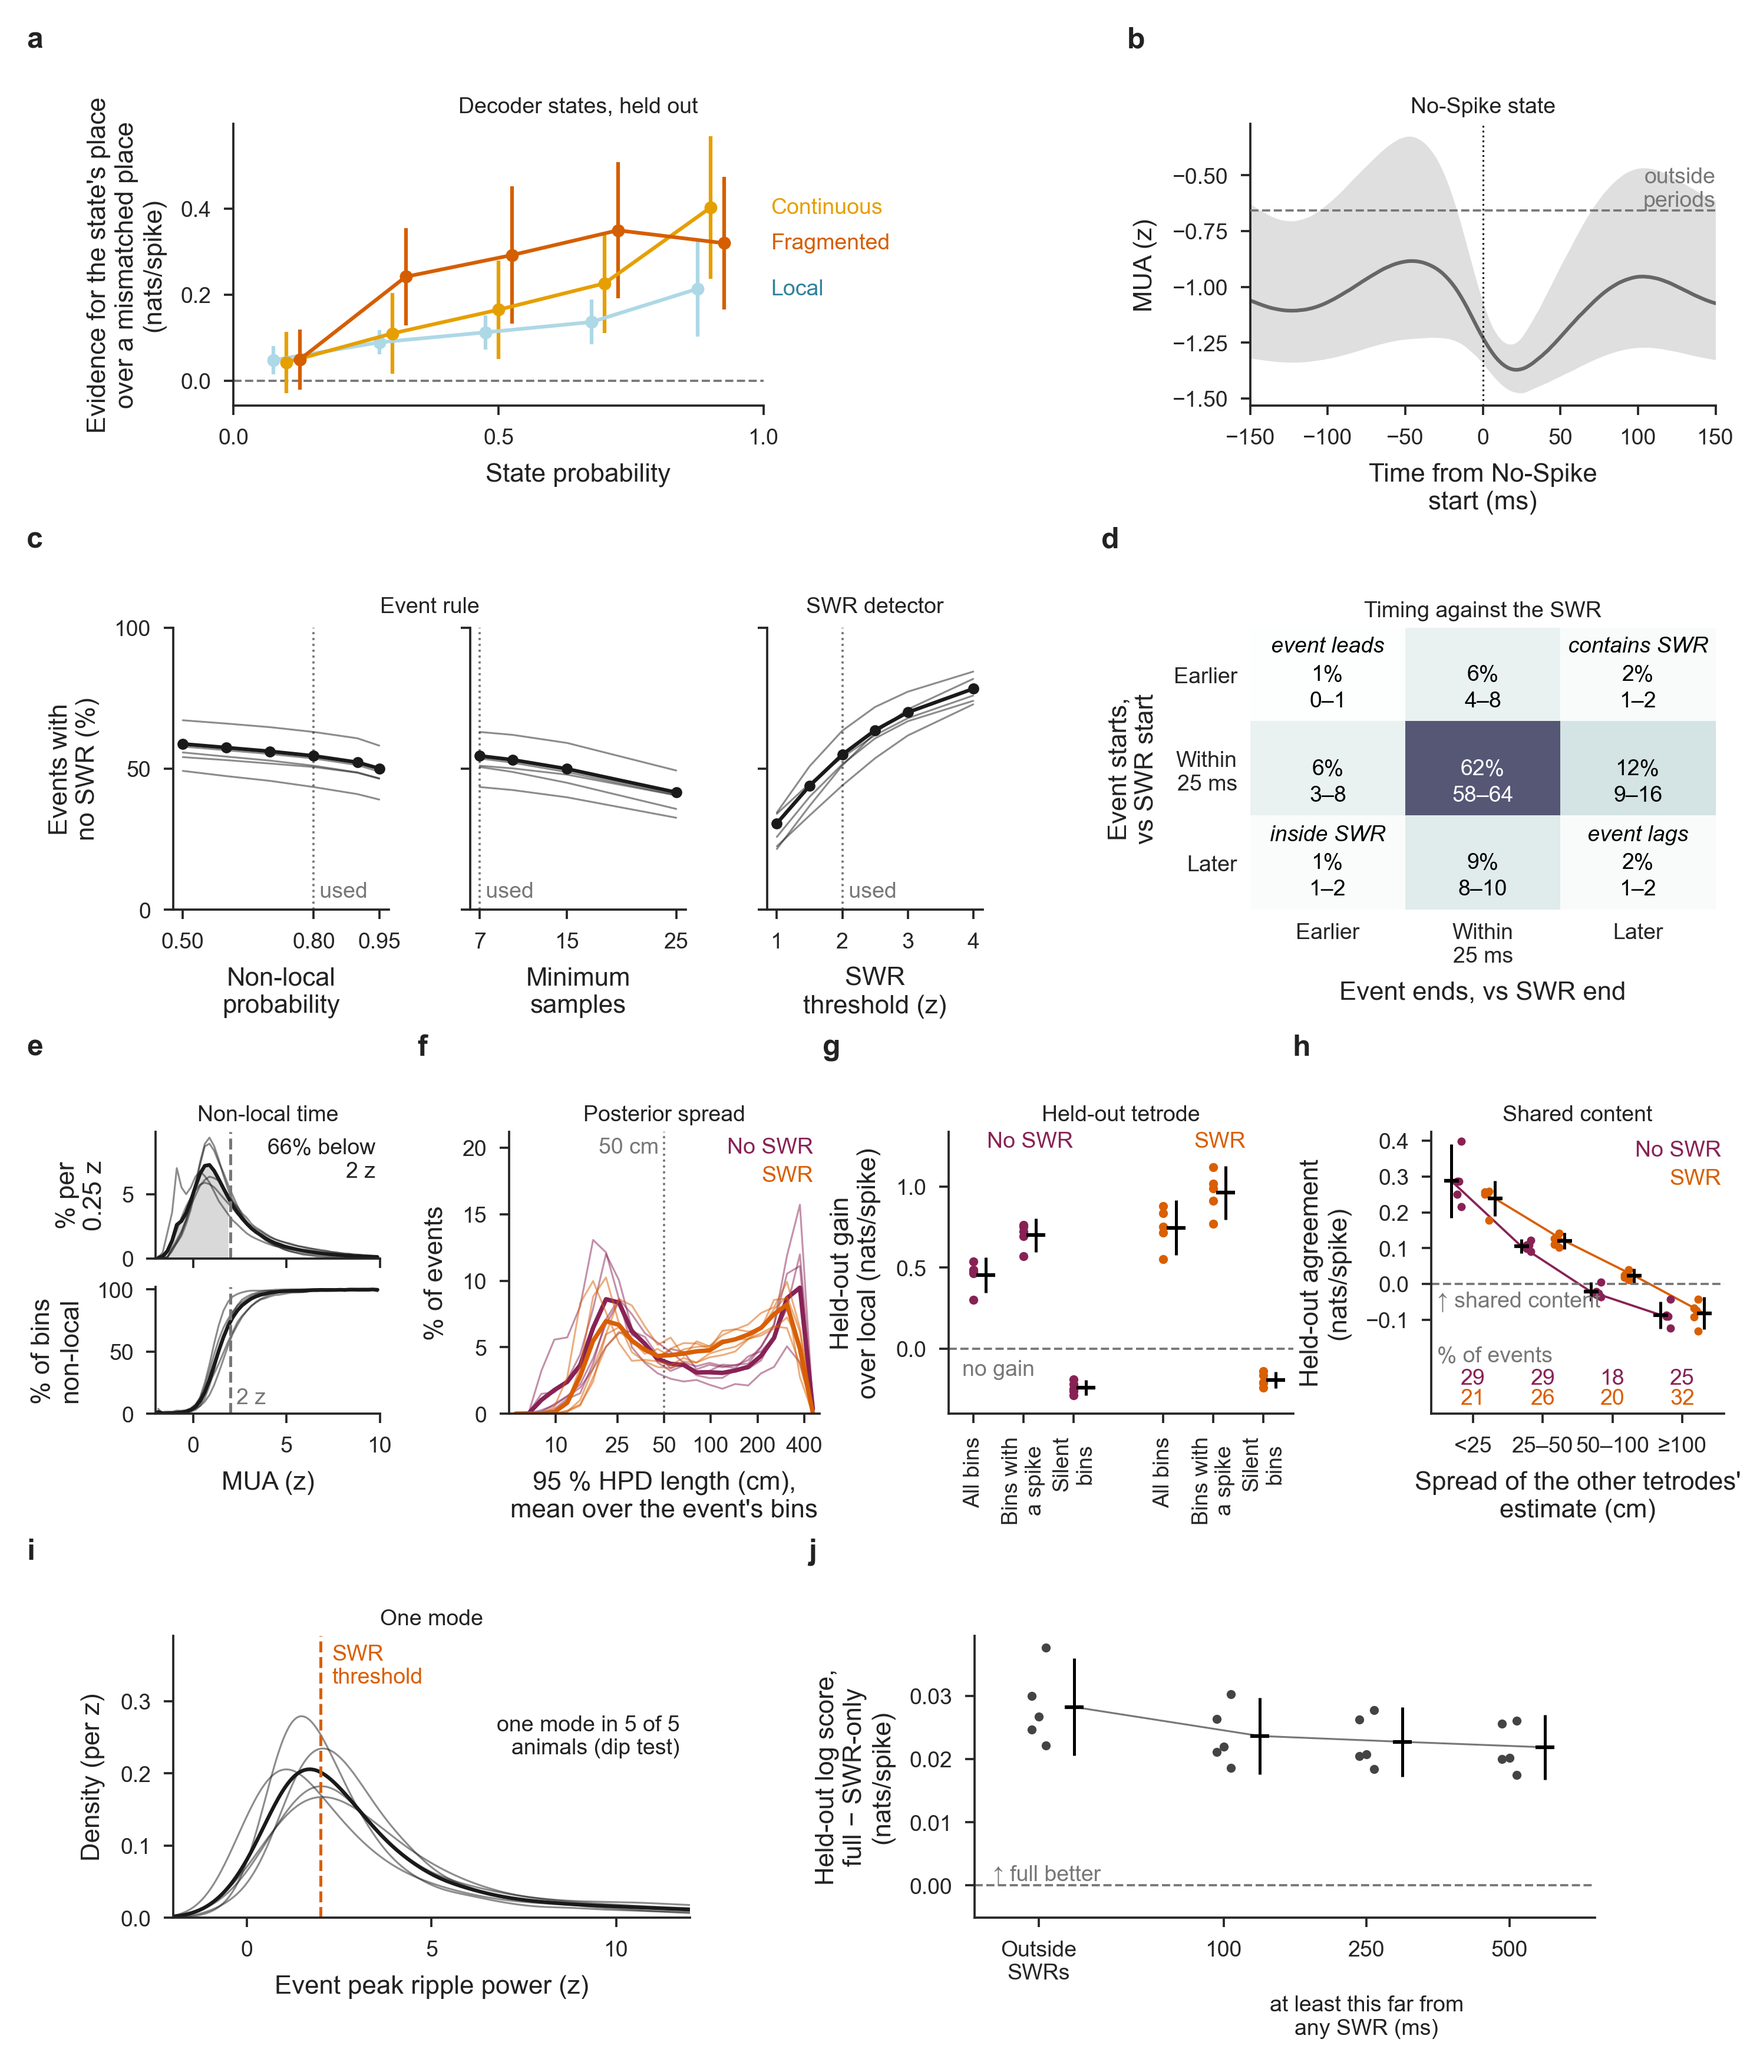
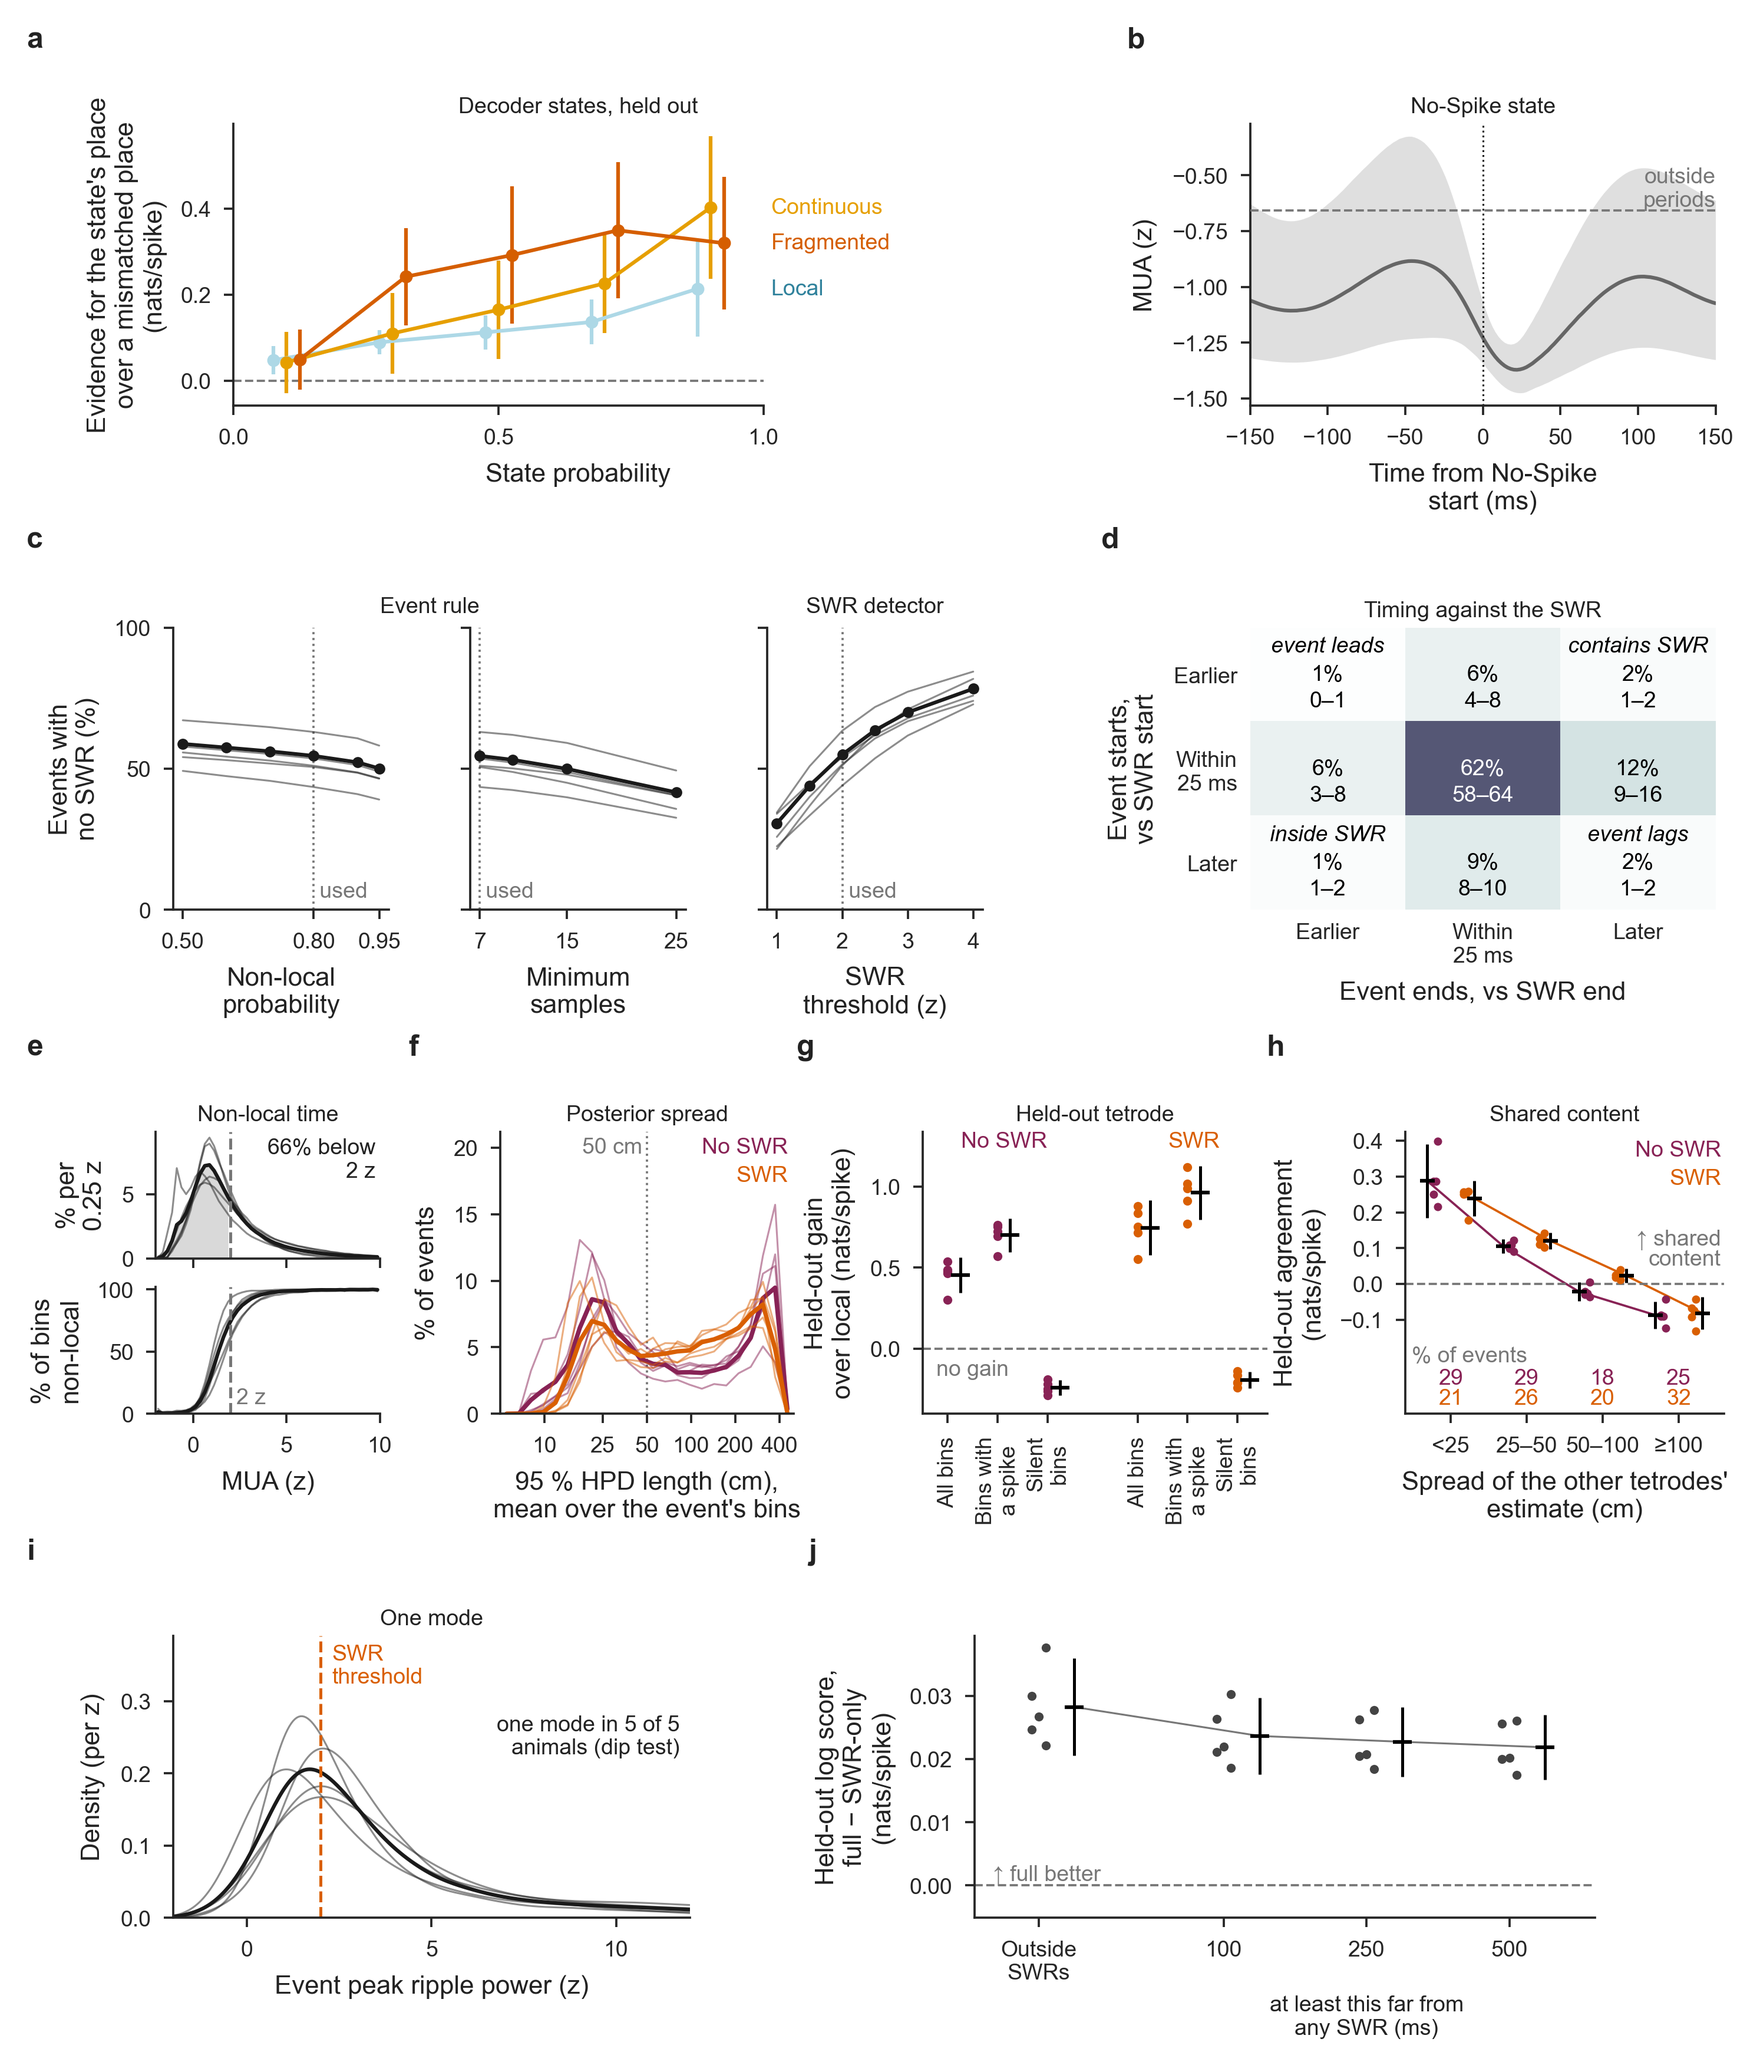
Supplement panel h: its note clear of the data, and room for its bin labels
The note of which way means shared content sat under the zero line, where
the no-SWR events' values now lie; it is above the line at the right, over
the widest bin, whose values are all below zero. The panel is a little
wider, so that the labels of the two middle bins do not touch.

Claude-Session: https://claude.ai/code/session_01CxVvHW3MMvWt927TLxeBBg

diff --git a/scripts/figures/generate_supp_figure02.py b/scripts/figures/generate_supp_figure02.py
@@ -474,9 +474,9 @@ FRAMES = {
     "rule_sweep": (0.085, 0.47),
     "boundary_timing": (0.71, 0.27),
     "nonlocal_mua": (0.075, 0.13),
-    "hpd": (0.28, 0.18),
-    "heldout_gain": (0.535, 0.2),
-    "shared_content": (0.815, 0.17),
+    "hpd": (0.275, 0.17),
+    "heldout_gain": (0.52, 0.2),
+    "shared_content": (0.8, 0.185),
     "ripple_modes": (0.085, 0.3),
     "outside_distance": (0.55, 0.36),
 }
@@ -826,7 +826,7 @@ def draw_shared_content(ax: Axes, statistics: pd.DataFrame) -> None:
     dots (one per animal) in its color on its side of the bin, the animals'
     mean with its 95 % interval in black farther out, a thin line through the
     group's means, the group's name beside its first bin, a dashed line at zero
-    and, under it at the left, which way means shared content; under the data,
+    and, above it at the right, which way means shared content; under the data,
     each group's percent of its events in each bin in its color
     (``share_of_events``), with a gray note of what the numbers are."""
     bins = np.arange(len(SPREAD_BIN_LABELS))
@@ -848,12 +848,13 @@ def draw_shared_content(ax: Axes, statistics: pd.DataFrame) -> None:
         )  # fmt: skip
         ax.plot(means, estimates, color=color, lw=0.6, zorder=1)
     ax.axhline(0, color=REFERENCE_COLOR, lw=0.6, ls="--", zorder=1)
-    # under the zero line at the left, where no group's values lie
+    # above the zero line at the right, over the widest bin, whose values are
+    # all below zero
     ax.annotate(
-        "\u2191 shared content", (0.02, 0.0),
+        "\u2191 shared\ncontent", (0.99, 0.0),
         xycoords=blended_transform_factory(ax.transAxes, ax.transData),
-        xytext=(0, -2), textcoords="offset points", ha="left", va="top",
-        fontsize=SMALL_SIZE, color=REFERENCE_COLOR,
+        xytext=(0, 4), textcoords="offset points", ha="right", va="bottom",
+        fontsize=SMALL_SIZE, color=REFERENCE_COLOR, linespacing=0.95,
     )  # fmt: skip
     for k, (name, color) in enumerate(
         zip(("No SWR", "SWR"), GROUP_COLORS.values(), strict=True)

diff --git a/tests/scripts/figures/test_generate_supp_figure02.py b/tests/scripts/figures/test_generate_supp_figure02.py
@@ -407,7 +407,7 @@ def test_panel_d_draws_the_agreement_by_spread():
         assert sorted(t.get_position()[0] for t in row) == list(bins)
     assert "% of events" in [t.get_text() for t in ax.texts]
     texts = [t.get_text() for t in ax.texts]
-    assert "\u2191 shared content" in texts
+    assert "\u2191 shared\ncontent" in texts
     assert {"No SWR", "SWR"} <= set(texts)
     assert ax.get_ylabel() == "Held-out agreement\n(nats/spike)"
     assert ax.get_xlabel() == "Spread of the other tetrodes'\nestimate (cm)"
